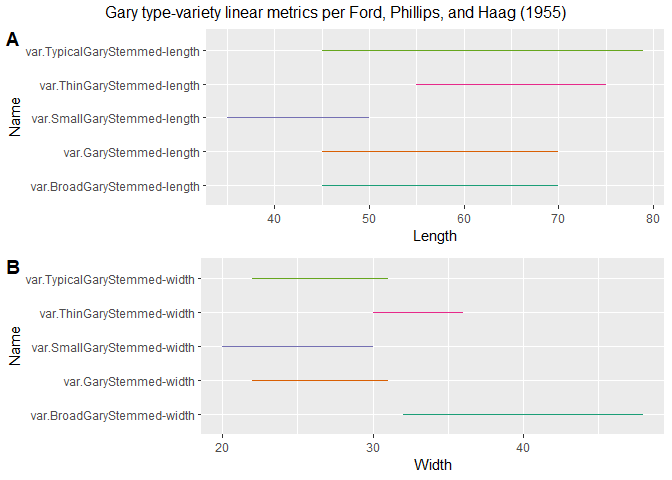
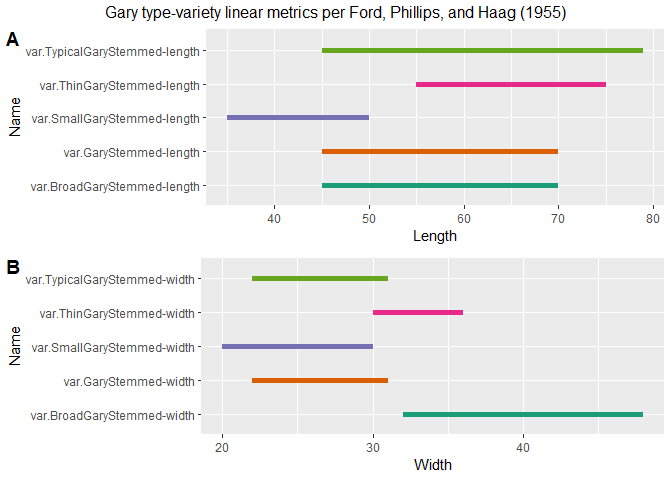
<edit linear-metrics>

diff --git a/analysis/linear-metrics.md b/analysis/linear-metrics.md
@@ -90,7 +90,7 @@ fphl<-data.frame(Name=c('var.GaryStemmed-length','var.TypicalGaryStemmed-length'
            end=c(70,79,70,75,50) # in mm
 )
 fphlength<-ggplot(fphl,aes(x=Length,xend=end,y=Name,yend=Name,color=Name)) +
-  geom_segment() +
+  geom_segment(size=2) +
   scale_color_brewer(palette = "Dark2") +
   theme(legend.position = "none")
 fphw<-data.frame(Name=c('var.GaryStemmed-width','var.TypicalGaryStemmed-width','var.BroadGaryStemmed-width','var.ThinGaryStemmed-width','var.SmallGaryStemmed-width'),
@@ -98,7 +98,7 @@ fphw<-data.frame(Name=c('var.GaryStemmed-width','var.TypicalGaryStemmed-width','
            end=c(31,31,48,36,30) # in mm
 )
 fphwidth<-ggplot(fphw,aes(x=Width,xend=end,y=Name,yend=Name,color=Name)) +
-  geom_segment() +
+  geom_segment(size=2) +
   scale_color_brewer(palette = "Dark2") +
   theme(legend.position = "none")
 # render figure
@@ -119,7 +119,7 @@ fwebbl<-data.frame(Name=c('var.GaryLarge-length','var.GaryMed/Typical-length','v
            end=c(140,79,45) # in mm
 )
 fwebblength<-ggplot(fwebbl,aes(x=Length,xend=end,y=Name,yend=Name,color=Name)) +
-  geom_segment() +
+  geom_segment(size=2) +
   scale_color_brewer(palette = "Dark2") +
   theme(legend.position = "none")
 fwebbw<-data.frame(Name=c('var.GaryLarge-width','var.GaryMed/Typical-width','var.GarySmall-width'),
@@ -127,7 +127,7 @@ fwebbw<-data.frame(Name=c('var.GaryLarge-width','var.GaryMed/Typical-width','var
            end=c(42,45,32) # in mm
 )
 fwebbwidth<-ggplot(fwebbw,aes(x=Width,xend=end,y=Name,yend=Name,color=Name)) +
-  geom_segment() +
+  geom_segment(size=2) +
   scale_color_brewer(palette = "Dark2") +
   theme(legend.position = "none")
 # thickness values were not precisely reported for GaryLarge and GaryTypical, and are included here for reference only
@@ -136,7 +136,7 @@ fwebbth<-data.frame(Name=c('var.GaryLarge-width','var.GaryMed/Typical-width','va
            end=c(13,10,10) # in mm
 )
 fwebbthickness<-ggplot(fwebbth,aes(x=Thickness,xend=end,y=Name,yend=Name,color=Name)) +
-  geom_segment() +
+  geom_segment(size=2) +
   scale_color_brewer(palette = "Dark2") +
   theme(legend.position = "none")
 # render figure
@@ -157,7 +157,7 @@ schambl<-data.frame(Name=c('var.Gary-length','var.Malvern-length','var.LeFlore-l
            end=c(73,72,80,60,57,67,80) # in mm
 )
 length<-ggplot(schambl,aes(x=Length,xend=end,y=Name,yend=Name,color=Name)) +
-  geom_segment() +
+  geom_segment(size=2) +
   scale_color_brewer(palette = "Dark2") +
   theme(legend.position = "none")
 schambw<-data.frame(Name=c('var.Gary-width','var.Malvern-width','var.LeFlore-width','var.Bodcaw-width','var.Manice-width','var.CamdenA-width','var.CamdenB-width'),
@@ -165,7 +165,7 @@ schambw<-data.frame(Name=c('var.Gary-width','var.Malvern-width','var.LeFlore-wid
            end=c(45,33,54,36,41,27,38) # in mm
 )
 width<-ggplot(schambw,aes(x=Width,xend=end,y=Name,yend=Name,color=Name)) +
-  geom_segment() +
+  geom_segment(size=2) +
   scale_color_brewer(palette = "Dark2") +
   theme(legend.position = "none")
 schambth<-data.frame(Name=c('var.Gary-thickness','var.Malvern-thickness','var.LeFlore-thickness','var.Bodcaw-thickness','var.Manice-thickness','var.CamdenA-thickness','var.CamdenB-thickness'),
@@ -173,7 +173,7 @@ schambth<-data.frame(Name=c('var.Gary-thickness','var.Malvern-thickness','var.Le
            end=c(11,13,13,12,9,14,11) # in mm
 )
 thickness<-ggplot(schambth,aes(x=Thickness,xend=end,y=Name,yend=Name,color=Name)) +
-  geom_segment() +
+  geom_segment(size=2) +
   scale_color_brewer(palette = "Dark2") +
   theme(legend.position = "none")
 schambstl<-data.frame(Name=c('var.Gary-stemlength','var.Malvern-stemlength','var.LeFlore-stemlength','var.Bodcaw-stemlength','var.Manice-stemlength','var.CamdenA-stemlength','var.CamdenB-stemlength'),
@@ -181,7 +181,7 @@ schambstl<-data.frame(Name=c('var.Gary-stemlength','var.Malvern-stemlength','var
            end=c(29,23,24,24,17,19,18) # in mm
 )
 stemlength<-ggplot(schambstl,aes(x=StemLength,xend=end,y=Name,yend=Name,color=Name)) +
-  geom_segment() +
+  geom_segment(size=2) +
   scale_color_brewer(palette = "Dark2") +
   theme(legend.position = "none")
 schambstw<-data.frame(Name=c('var.Gary-stemlength','var.Malvern-stemlength','var.LeFlore-stemlength','var.Bodcaw-stemlength','var.Manice-stemlength','var.CamdenA-stemlength'), # var.CamdenB-stemlength not listed in text
@@ -189,7 +189,7 @@ schambstw<-data.frame(Name=c('var.Gary-stemlength','var.Malvern-stemlength','var
            end=c(28,25,33,24,24,21) # in mm
 )
 stemwidth<-ggplot(schambstw,aes(x=StemWidth,xend=end,y=Name,yend=Name,color=Name)) +
-  geom_segment() +
+  geom_segment(size=2) +
   scale_color_brewer(palette = "Dark2") +
   theme(legend.position = "none")
 # render figure
